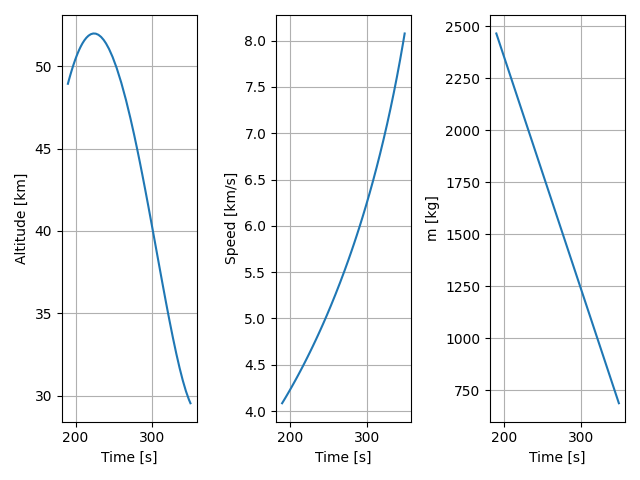
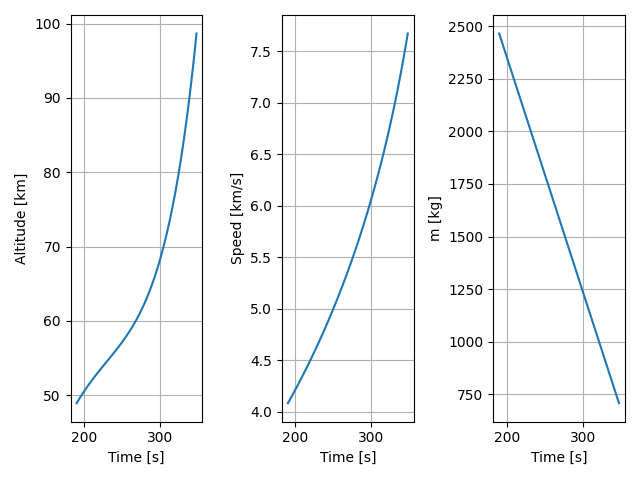
TrajectoryPlots

diff --git a/main.py b/main.py
@@ -141,7 +141,8 @@ if print_bool:
 # The rocket first stage has departed.
 # The fairing along with it.
 mass_coasting = sub_stage_masses[1] - mass_fairing # Mass of the second stage & payload - fairing [kg]
-print(f'mass_coasting: {mass_coasting}')
+if print_bool:
+      print(f'mass_coasting: {mass_coasting}')
 coasting_first_state = np.concatenate((gravity_turn_final_position_vector,
                                           gravity_turn_final_velocity_vector,
                                           [mass_coasting]))
@@ -161,13 +162,13 @@ coasting_final_velocity_vector = coasting_final_state[3:6]
 coasting_final_mass = coasting_final_state[6]
 coasting_final_altitude = np.cross(coasting_final_position_vector, coasting_final_velocity_vector)
 coasting_final_time = coasting_time[-1]
-
-print(f'Gravity turn final state: {gravity_turn_final_state}')
-print(f'Coasting final state: {coasting_final_state}')
+if print_bool:
+      print(f'Gravity turn final state: {gravity_turn_final_state}')
+      print(f'Coasting final state: {coasting_final_state}')
 
 
 from exo_atmos_opt import ExoAtmosphericPropelledOptimisation
-from params import exo_atmoshere_target_altitude, minimum_delta_v_adjustments_exo
+from params import exo_atmoshere_target_altitude_propelled, minimum_delta_v_adjustments_exo
 
 exo_atmos_opt = ExoAtmosphericPropelledOptimisation(
       Isp = specific_impulses_vacuum[1],
@@ -177,25 +178,99 @@ exo_atmos_opt = ExoAtmosphericPropelledOptimisation(
       mass_flow_exo = stage_properties_dict['mass_flow_rates'][1],
       mass_payload = payload_mass,
       burn_time_exo_stage = stage_properties_dict["burn_times"][1],
-      max_altitude = exo_atmoshere_target_altitude,
+      max_altitude = exo_atmoshere_target_altitude_propelled,
       minimum_delta_v_adjustments = minimum_delta_v_adjustments_exo,
-      print_bool = False)
+      print_bool = False,
+      number_of_iterations = 200) # Many more for true optimal solution, but 200 gives somewhere which kind of works.
 
-exo_propelled_optimised_variables = exo_atmos_opt.optimise() #[burn_time, prU, pvU]
+optimise_bool = False
+if optimise_bool:
+      exo_propelled_optimised_variables = exo_atmos_opt.optimise() #[burn_time, prU, pvU]
+else:
+      exo_propelled_optimised_variables = [157.68166474,  -0.31314135,  -0.37672153,   0.673084, 0.29738395, 0.49776836,  -0.71123396]
 
-print(f'propellant_burn_time: {exo_propelled_optimised_variables[0]} vs. 171'
-      f'\n prU: {exo_propelled_optimised_variables[1:4]} vs. [-0.004, -0.021, -0.0435]'
-      f'\n pvU: {exo_propelled_optimised_variables[4:7]} vs. [1, -0.2716, 0.7936]')
+if print_bool:
+      print(f'propellant_burn_time: {exo_propelled_optimised_variables[0]} vs. 171'
+            f'\n prU: {exo_propelled_optimised_variables[1:4]} vs. [-0.004, -0.021, -0.0435]'
+            f'\n pvU: {exo_propelled_optimised_variables[4:7]} vs. [1, -0.2716, 0.7936]')
 
 from exo_atmopshere_propelled import exo_atmosphere_propelled
-print(f'Validation :exo_propelled_optimised_variables = {[171, -0.004, -0.021, -0.0435, 1, -0.2716, 0.7936]}')
+#sprint(f'Validation :exo_propelled_optimised_variables = {[171, -0.004, -0.021, -0.0435, 1, -0.2716, 0.7936]}')
 
 exo_propelled_final_state_augmented, exo_propelled_augmented_states, \
       exo_propelled_times = exo_atmosphere_propelled(initial_state = coasting_final_state,
                                     optimisation_parameters = exo_propelled_optimised_variables,
                                     t_start = coasting_final_time,
                                     mass_flow_exo = stage_properties_dict['mass_flow_rates'][1],
-                                    plot_bool = True)
+                                    plot_bool = False)
+
+# Coasting to final orbit.
+from params import altitude_orbit
+from exo_atmosphere_coasting_to_orbit import exo_atmosphere_coasting_to_orbit
+exo_coasting_time_start = exo_propelled_times[-1]
+exo_coasting_initial_state = exo_propelled_final_state_augmented[:7] #[r, v, m]
+
+exo_coasting_times, exo_coasting_states, \
+            exo_coasting_final_state = exo_atmosphere_coasting_to_orbit(t_start = exo_coasting_time_start,
+                                            initial_state = exo_coasting_initial_state,
+                                            target_altitude = altitude_orbit,
+                                            plot_bool = False)
+# Circularise final orbit.
+from exo_circular_final_orbit import final_orbit_maneuver
+final_orbit_time_start = exo_coasting_times[-1]
+final_orbit_initial_state = exo_coasting_final_state # [r, v, m]
+
+final_orbit_times, final_orbit_states, \
+            final_orbit_final_state = final_orbit_maneuver(initial_state = final_orbit_initial_state,
+                                            altitude_orbit = altitude_orbit,
+                                            t_start = final_orbit_time_start,
+                                            plot_bool = False)
+
+# Collate trajectory times
+trajectory_times = [vertical_rising_time,
+                    gravity_turn_time[1:],
+                    coasting_time[1:],
+                    exo_propelled_times[1:],
+                    exo_coasting_times[1:],
+                    final_orbit_times[1:]]
+trajectory_times = np.concatenate(trajectory_times)
+# Collate trajectory states
+exo_propelled_states_non_augmented = exo_propelled_augmented_states[:7,:] # [r, v, m]
+
+trajectory_states = [vertical_rising_states,
+                        gravity_turn_states[:,1:],
+                        coasting_states[:,1:],
+                        exo_propelled_states_non_augmented[:,1:],
+                        exo_coasting_states[:,1:],
+                        final_orbit_states[:,1:]]
+trajectory_states = np.concatenate(trajectory_states, axis=1)
+
+# Now without orbit
+trajectory_states_no_orbit = [vertical_rising_states,
+                        gravity_turn_states[:,1:],
+                        coasting_states[:,1:],
+                        exo_propelled_states_non_augmented[:,1:],
+                        exo_coasting_states[:,1:]]
+trajectory_states_no_orbit = np.concatenate(trajectory_states_no_orbit, axis=1)
+
+trajectory_times_no_orbit = [vertical_rising_time,
+                    gravity_turn_time[1:],
+                    coasting_time[1:],
+                    exo_propelled_times[1:],
+                    exo_coasting_times[1:]]
+trajectory_times_no_orbit = np.concatenate(trajectory_times_no_orbit)
+
+# Plot trajectories
+from plot_final_trajectory import final_orbit_plotter
+final_orbit_plotter(trajectory_states,
+                        trajectory_times,
+                        plot_bool=True,
+                        full_orbit=True)
+
+final_orbit_plotter(trajectory_states_no_orbit,
+                        trajectory_times_no_orbit,
+                        plot_bool=True,
+                        full_orbit=False)
 
 # Optimise full trajectory.
 # Dynamic pressure checks.

diff --git a/exo_circular_final_orbit.py b/exo_circular_final_orbit.py
@@ -1,0 +1,81 @@
+import numpy as np
+from scipy.integrate import solve_ivp
+import matplotlib.pyplot as plt
+from params import G, M_earth, R_earth, specific_impulses_vacuum, mu, g0
+
+# Define Two-Body Equations of Motion
+def coasting_derivatives(t, y):
+    r = y[:3]
+    v = y[3:6]
+    m = y[6]
+    rdot = v
+    vdot = -mu / (np.linalg.norm(r) ** 3) * r
+    return np.concatenate((rdot, vdot, [0]))
+
+def final_orbit_maneuver(initial_state,
+                         altitude_orbit,
+                         t_start,
+                         plot_bool=False,
[1 lines of base64/hex data omitted]
+    initial_position_vector = initial_state[:3]
+    initial_velocity_vector = initial_state[3:6]
+    initial_mass = initial_state[6]
+
+    initial_speed = np.linalg.norm(initial_velocity_vector)  # Current speed [m/s]
+    orbit_velocity = np.sqrt(G * M_earth / (R_earth + altitude_orbit))  # Required orbital velocity [m/s]
+    delta_v_required = orbit_velocity - initial_speed  # Delta V required [m/s]
+    Isp_final_stage = specific_impulses_vacuum[1]  # Specific impulse [s]
+
+    # Calculate propellant mass needed
+    delta_f = delta_v_required / (Isp_final_stage * g0) # Propellant mass fraction
+    final_mass = initial_mass * np.exp(-delta_f)
+    change_in_mass = initial_mass - final_mass
+
+    # Apply Delta V in the prograde direction
+    unit_velocity = initial_velocity_vector / initial_speed
+    delta_v_vector = delta_v_required * unit_velocity
+    final_speed = initial_velocity_vector + delta_v_vector
+
+    # Update final state
+    final_state = np.concatenate((initial_position_vector, final_speed, [final_mass]))
+
+
+    #print(f"Delta V Required: {delta_v_required:.2f} m/s")
+    #print(f"Propellant Mass Used: {change_in_mass:.2f} kg")
+    #print(f"Final Velocity Vector: {final_speed} m/s")
+    #print(f"Final Mass: {final_mass:.2f} kg")
+
+    # semi-major axis of the final orbit
+    semi_major_axis_orbit = R_earth + altitude_orbit
+    # Orbital period of the final orbit
+    T_orbit = 2 * np.pi * np.sqrt(semi_major_axis_orbit**3 / (G * M_earth))
+    # Time span for one orbital period
+    t_span = (t_start, t_start + T_orbit)
+
+    # Integrate the equations of motion
+    solution = solve_ivp(coasting_derivatives,
+                         t_span,
+                         final_state,
+                         max_step=0.1,
+                         rtol=1e-8,
+                         atol=1e-8)
+    # Extract position data
+    r = solution.y[0:3]
+
+    # Plot the circular orbit
+    fig = plt.figure(figsize=(8, 6))
+    ax = fig.add_subplot(111, projection='3d')
+    ax.plot(r[0], r[1], r[2], label='Circular Orbit')
+    ax.scatter(0, 0, 0, color='yellow', label='Earth', s=100)
+    ax.set_xlabel('X (m)')
+    ax.set_ylabel('Y (m)')
+    ax.set_zlabel('Z (m)')
+    ax.legend()
+    ax.set_title('Final Circular Orbital Trajectory')
+    plt.savefig(save_file_path + '/final_circular_orbit.png')
+    if plot_bool:
+        plt.show()
+    else:
+        plt.close()
+    
+    return solution.t, solution.y, final_state

diff --git a/exo_atmosphere_coasting_to_orbit.py b/exo_atmosphere_coasting_to_orbit.py
@@ -1,0 +1,61 @@
+import numpy as np
+import matplotlib.pyplot as plt
+from scipy.integrate import solve_ivp
+from params import mu, R_earth
+
+
+def coasting_derivatives(t, y):
+    r = y[:3]
+    v = y[3:6]
+    m = y[6]
+    rdot = v
+    vdot = -mu / (np.linalg.norm(r) ** 3) * r
+    return np.concatenate((rdot, vdot, [0]))
+
+def make_altitude_event(target_altitude):
+    def altitude_event(t, y):
+        altitude = np.linalg.norm(y[:3]) - R_earth
+        return altitude - target_altitude
+    altitude_event.terminal = True
+    return altitude_event
+
+def exo_atmosphere_coasting_to_orbit(t_start,
+                                     initial_state, # [r, v, m]
+                                     target_altitude,
+                                     plot_bool = False,
[1 lines of base64/hex data omitted]
+    
+    # Mock t_span to cover all events
+    t_span = [t_start, 10000]
+    sol = solve_ivp(
+        coasting_derivatives,
+        t_span,  
+        initial_state,
+        events=make_altitude_event(target_altitude), 
+        max_step=0.1,  # limiting step size for demonstration
+        rtol=1e-8,
+        atol=1e-8
+    )
+
+    final_state = sol.y[:, -1]
+
+    # Plot atitude, velocity, and fuel mass next to each other
+
+    fig, axs = plt.subplots(3, 1, figsize=(10, 10))
+    axs[0].plot(sol.t, np.linalg.norm(sol.y[:3], axis=0) - R_earth)
+    axs[0].set_ylabel('Altitude [m]')
+    axs[0].set_xlabel('Time [s]')
+    axs[1].plot(sol.t, np.linalg.norm(sol.y[3:6], axis=0))
+    axs[1].set_ylabel('Velocity [m/s]')
+    axs[1].set_xlabel('Time [s]')
+    axs[2].plot(sol.t, sol.y[6])
+    axs[2].set_ylabel('Mass [kg]')
+    axs[2].set_xlabel('Time [s]')
+    plt.tight_layout()
+    plt.savefig(save_file_path + '/exo_atmophere_coasting_to_orbit.png')
+    if plot_bool:
+        plt.show()
+    else:
+        plt.close()
+
+    return sol.t, sol.y, final_state

diff --git a/plot_final_trajectory.py b/plot_final_trajectory.py
@@ -1,0 +1,55 @@
+import numpy as np
+import matplotlib.pyplot as plt
+from params import R_earth
+
+def final_orbit_plotter(states,
+                        times,
+                        plot_bool=False,
+                        full_orbit=False,
[1 lines of base64/hex data omitted]
+    if full_orbit:
+        save_tag = 'full_orbit'
+    else:
+        save_tag = 'to_orbit'
+    # Plot the final trajectory
+    fig = plt.figure(figsize=(10, 10))
+    ax = fig.add_subplot(111, projection='3d')
+    ax.plot(states[0, :], states[1, :], states[2, :], label='Trajectory')
+    ax.set_xlabel('X [m]')
+    ax.set_ylabel('Y [m]')
+    ax.set_zlabel('Z [m]')
+    ax.legend()
+    ax.set_title('Final Trajectory')
+    plt.savefig(f'{save_file_path}/{save_tag}.png')
+    if plot_bool:
+        plt.show()
+    else:
+        plt.close()
+
+    # Plot the altitude, velocity, and mass
+    altitude = np.linalg.norm(states[:3, :], axis=0) - R_earth
+    velocity = np.linalg.norm(states[3:6, :], axis=0)
+    mass = states[6, :]
+    # tall and not wide
+    plt.figure()
+    plt.subplot(1,3,1)
+    plt.plot(times, altitude/1000)
+    plt.xlabel('Time [s]')
+    plt.ylabel('Altitude [km]')
+    plt.grid()
+    plt.subplot(1,3,2)
+    plt.plot(times, velocity/1000)
+    plt.xlabel('Time [s]')
+    plt.ylabel('Velocity [km/s]')
+    plt.grid()
+    plt.subplot(1,3,3)
+    plt.plot(times, mass)
+    plt.xlabel('Time [s]')
+    plt.ylabel('Mass [kg]')
+    plt.grid()
+    plt.tight_layout()
+    plt.savefig(f'{save_file_path}/{save_tag}_altitude_velocity_mass.png')
+    if plot_bool:
+        plt.show()
+    else:
+        plt.close()

diff --git a/params.py b/params.py
@@ -9,6 +9,8 @@ w_earth = np.array([0, 0, 2 * np.pi / 86164])  # Earth angular velocity [rad/s]
 g0 = 9.80665  # Gravity constant on Earth [m/s^2]
 scale_height_endo = 8500  # Scale height for endo-atmospheric model [m]
 rho0 = 1.225  # Sea level density [kg/m^3]
+M_earth = 5.972e24  # kg
+G = 6.67430e-11  # m^3 kg^-1 s^-2
 
 # Mission Requirements Data
 payload_mass = 300                          # Payload mass [kg]
@@ -62,11 +64,11 @@ initial_conditions_dictionary = {
 }
 
 # Variables which could maybe optimise.
-target_altitude_vertical_rising = 100.0     # target altitude [m]
-kick_angle = math.radians(0.1)              # kick angle [deg]
-target_altitude_gravity_turn = 1160000.0    # target altitude [m], maximum altitude for gravity turn
-coasting_time = 5.0                         # coasting time [s]
-exo_atmoshere_target_altitude = 100000.0    # target altitude [m]
+target_altitude_vertical_rising = 100.0                 # target altitude [m]
+kick_angle = math.radians(0.1)                          # kick angle [deg]
+target_altitude_gravity_turn = 1160000.0                # target altitude [m], maximum altitude for gravity turn
+coasting_time = 5.0                                     # coasting time [s]
+exo_atmoshere_target_altitude_propelled = 100000.0      # target altitude [m]
 
 # Mission dependent.
 minimum_delta_v_adjustments_exo = 200.0     # minimum delta v adjustments [m/s]

diff --git a/exo_atmos_opt.py b/exo_atmos_opt.py
@@ -16,11 +16,11 @@ class ExoAtmosphericPropelledOptimisation:
                  burn_time_exo_stage,
                  max_altitude = 100000, # Maximum altitude for the orbit [km]
                  minimum_delta_v_adjustments = 200,
-                 number_of_iterations = 2000,
+                 number_of_iterations = 200,
                  print_bool = True):
         self.print_bool = print_bool
 
-        self.radius_error = 200  # Error in semi-major axis [m]
+        self.radius_error = 10  # Error in semi-major axis [m]
         self.minimum_altitude = 80  # Minimum altitude [km]
 
         self.mu = mu
@@ -359,7 +359,7 @@ class ExoAtmosphericPropelledOptimisation:
         c_ineq_2 = altitude_constraint_fcn(optimised_state)
         c_ineq_3 = semi_major_axis_constraint_fcn(optimised_state)
         c_ineq_4 = final_altitude_constraint(optimised_state)
-        print(f"Final constraints: {c_ineq_1} >= 0, {c_ineq_2} >= 0, {c_ineq_3} >= 0", {c_ineq_4} >= 0)
+        print(f"Final constraints: {c_ineq_1} >= 0, {c_ineq_2} >= 0, {c_ineq_3} >= 0, {c_ineq_4} >= 0")
         if c_ineq_1 < 0:
             raise ValueError("Mass constraint violated.")
         elif c_ineq_2 < 0:

diff --git a/exo_atmopshere_propelled.py b/exo_atmopshere_propelled.py
@@ -52,13 +52,6 @@ def exo_atmosphere_propelled(initial_state,
 
     # Define the time span
     t_span = [t_start, t_start + t_burn]
-
-    print(f'Python: Propagating exo-atmosphere propelled trajectory for {t_burn} seconds.')
-    print(f'Augmented state vector: {augmented_state_vector}')
-    print(f'Optimisation parameters: {optimisation_parameters}')
-    print(f'mu: {mu}')
-    print(f'Thrust: specific_impulses_vacuum[1] * g0 * mass_flow_exo: {specific_impulses_vacuum[1] * g0 * mass_flow_exo} = {specific_impulses_vacuum[1]} * {g0} * {mass_flow_exo}')
-    print(f'Initial state: {initial_state}')
     
 
 
